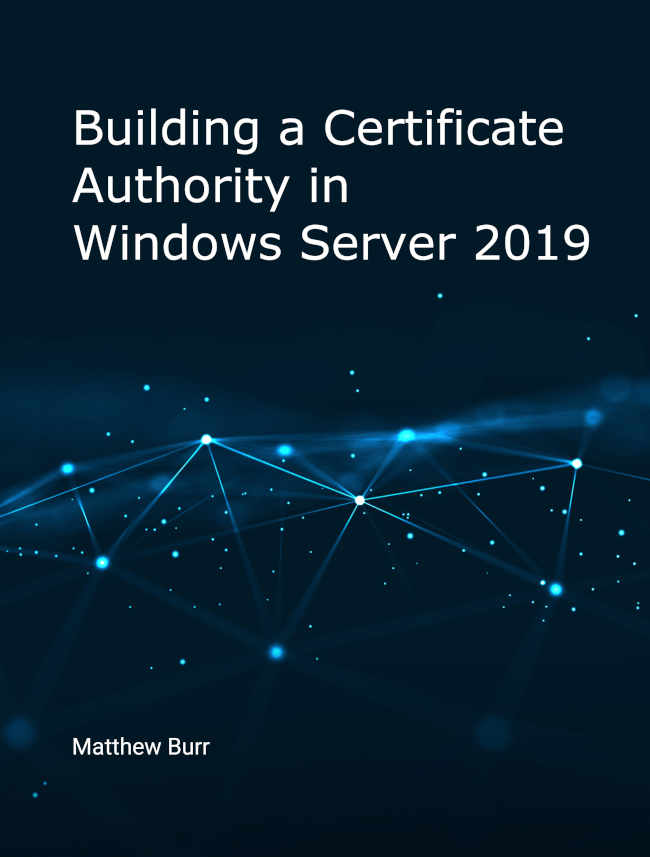
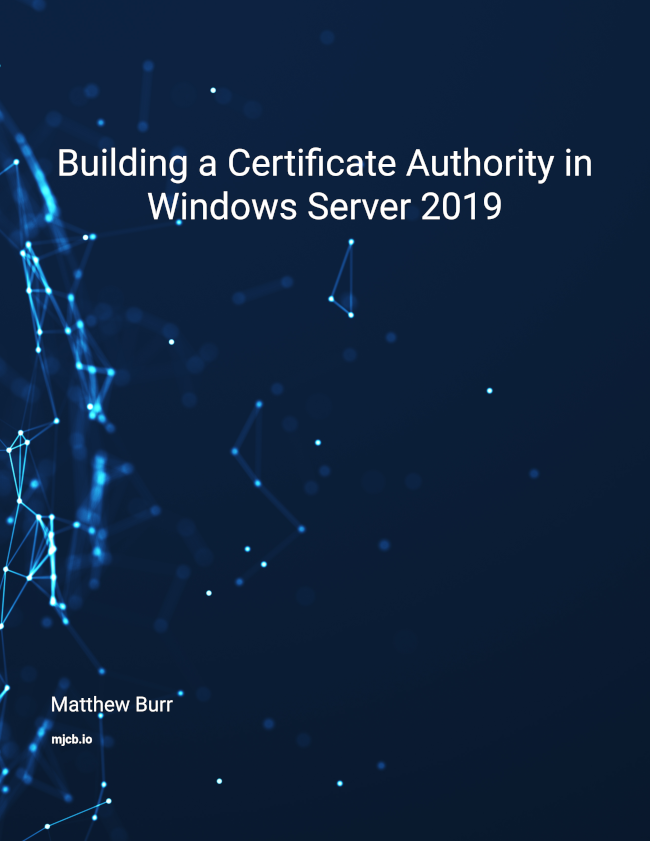
Minor updates to the website content.
- Updated the Building a Certificate Authority in Windows Server 2019 publication page for the release of the new guide.
- Updated the cover art for the Building a Certificate Authority in Windows Server 2019 publication page.
- Minor fixes to the other publication pages.
- Fixed a command in the AD CS guide.

diff --git a/content/publications/00002-building-a-certificate-authority-in-windows-server-2019.md b/content/publications/00002-building-a-certificate-authority-in-windows-server-2019.md
@@ -49,7 +49,7 @@ This guide is a slight modification of the last chapter from the [Practical Guid
 
 ## What's Inside? ##
 
-* A 38 page guide for implementing a Two-Tier Certificate Authority using Windows Server 2019 and Active Directory Certificate Services.
+* A 42 page guide for implementing a Two-Tier Certificate Authority using Windows Server 2019 and Active Directory Certificate Services.
 * A guide for installing and configuring Active Directory Domain Services.
 * A guide for creating an offline Standalone/Root CA.
 * A guide for creating an online Enterprise/Subordinate CA.
@@ -77,8 +77,30 @@ This guide is also meant to be used by developers, network administrators and sy
 
 ## Updates and Additional Materials ##
 
-If there are any updates for the guide or additional materials, they will be posted to this page.
+### November 1, 2023 Update ###
+
+I have released an updated version of this guide, here are the changes in this version:
+
+* Added a proper Introduction section to the guide, which is used to explain how the guide is organized. It also establishes requirements for testing the steps in the guide.
+* Added additional details to the Active Directory Domain Services setup and deployment.
+* Added additional details to the Root CA and Subordinate CA setup and deployment.
+* Fixed several typos and grammatical errors in the guide.
+* Increased the size of the images and screenshots in the guide to make them easier to read.
+* Modified the formatting of the embedded configuration files to make them easier to read.
+* Replaced the command to enable double escaping in IIS, as the previous command was outdated.
+* Updated the look of the guide to match the style of the [AD CS on Windows Server 2022](/publications/adcs-on-windows-server-2022/) guide. This improves readability for CLI commands that need to be entered, as well as standardizes the look of all elements the guide.
+* Updated the page size of the guide to letter, which makes it easier to print the guide if needed. 
+* Updated the title page of the guide to differentiate it from the [Practical Guide to PKI with Windows Server](/publications/practical-guide-to-pki-with-windows-server/) book.
+
+This is not a second edition or version 2.0 of the guide, it is a small quality of life update. I do not plan on updating this guide again since Windows Server 2019 is getting older and AD CS will not receive any major updates on that Operating System.
+
+### Additional Materials ###
+
+There are several resources for expanding upon the functionality of this guide:
+
+* [AD CS on Windows Server 2019](https://docs.mjcb.io/microsoft/windows-server/windows-server-roles-features/adcs/adcs-windows-server-2019/) guide on [docs.mjcb.io](https://docs.mjcb.io/).
+* [AD CS on Windows Server 2022](https://docs.mjcb.io/microsoft/windows-server/windows-server-roles-features/adcs/adcs-windows-server-2022/) guide on [docs.mjcb.io](https://docs.mjcb.io/).
 
 ## Links ##
 
-* **Gumroad**: [https://mjcb.gumroad.com/l/building-a-ca-in-windows-server-2019/](https://mjcb.gumroad.com/l/building-a-ca-in-windows-server-2019/)
+* [Building a Certificate Authority in Windows Server 2019 (Gumroad)](https://mjcb.gumroad.com/l/building-a-ca-in-windows-server-2019/)

diff --git a/content/blog/00056-mid-year-update-2023.md b/content/blog/00056-mid-year-update-2023.md
@@ -54,4 +54,4 @@ Oddly enough the first time that I had ever heard of Twitter was way back in lat
 
 I checked recently and I have three posts on this site that had embedded tweets, and last week I removed them and replaced them with screenshots. I am honestly not sure what it going to happen to that platform in the future, but there is enough link rot on the internet. I can at least preserve what was said in those tweets, even if the link to Twitter stops working in the future.
 
-If you look into the GitHub for this website I have a folder for [external sources](https://github.com/matthew-tfs/mjcb.io/tree/main/static/docs/blog). I try and put the sources of all referenced content on this site in case they are changed or disappear in the future. I will try and go through my existing posts and backup any existing external references as I can.
+If you check out the source code on GitHub for this website, I have a folder for [external sources](https://github.com/matthew-tfs/mjcb.io/tree/main/static/docs/blog). I try and put the sources of all referenced content on this website in case they are changed or disappear in the future. I will try and go through my existing posts and backup any existing external references as I can.

diff --git a/content/publications/00003-adcs-on-windows-server-2022.md b/content/publications/00003-adcs-on-windows-server-2022.md
@@ -59,8 +59,13 @@ This guide is also meant to be used by developers, network administrators and sy
 
 ## Updates and Additional Materials ##
 
-If there are any updates for the guide or additional materials, they will be posted to this page.
+### Additional Materials ###
+
+There are several resources for expanding upon the functionality of this guide:
+
+* [AD CS on Windows Server 2019](https://docs.mjcb.io/microsoft/windows-server/windows-server-roles-features/adcs/adcs-windows-server-2019/) guide on [docs.mjcb.io](https://docs.mjcb.io/).
+* [AD CS on Windows Server 2022](https://docs.mjcb.io/microsoft/windows-server/windows-server-roles-features/adcs/adcs-windows-server-2022/) guide on [docs.mjcb.io](https://docs.mjcb.io/).
 
 ## Links ##
 
-* **Gumroad**: [https://mjcb.gumroad.com/l/adcs-on-windows-server-2022/](https://mjcb.gumroad.com/l/adcs-on-windows-server-2022/)
+* [AD CS on Windows Server 2022 (Gumroad)](https://mjcb.gumroad.com/l/adcs-on-windows-server-2022/)

diff --git a/content/publications/00001-practical-guide-to-pki-with-windows-server.md b/content/publications/00001-practical-guide-to-pki-with-windows-server.md
@@ -84,5 +84,5 @@ If there are any updates for the book or additional materials, they will be post
 
 ## Links ##
 
-* **Amazon**: [https://www.amazon.com/dp/B09HHLZ36L/](https://www.amazon.com/dp/B09HHLZ36L/)
-* **Gumroad**: [https://mjcb.gumroad.com/l/pki-book/](https://mjcb.gumroad.com/l/pki-book/)
+* [Practical Guide to PKI with Windows Server (Amazon)](https://www.amazon.com/dp/B09HHLZ36L/)
+* [Practical Guide to PKI with Windows Server (Gumroad)](https://mjcb.gumroad.com/l/pki-book/)

diff --git a/content/blog/00024-certificate-authority-windows-server-2019-part-2.md b/content/blog/00024-certificate-authority-windows-server-2019-part-2.md
@@ -195,7 +195,7 @@ On the **TFS-CA01** Server, enable Double Escaping in IIS in order to allow for 
 3. Type following command and press **ENTER**:
 
 ```cmd
-Appcmd set config "Default Web Site" /section:system.webServer/Security/requestFiltering -allowDoubleEscaping:True
+appcmd.exe set config /section:requestfiltering /allowdoubleescaping:true
 ```
 
 4. Restart IIS service by typing **iisreset** and pressing **ENTER**.
